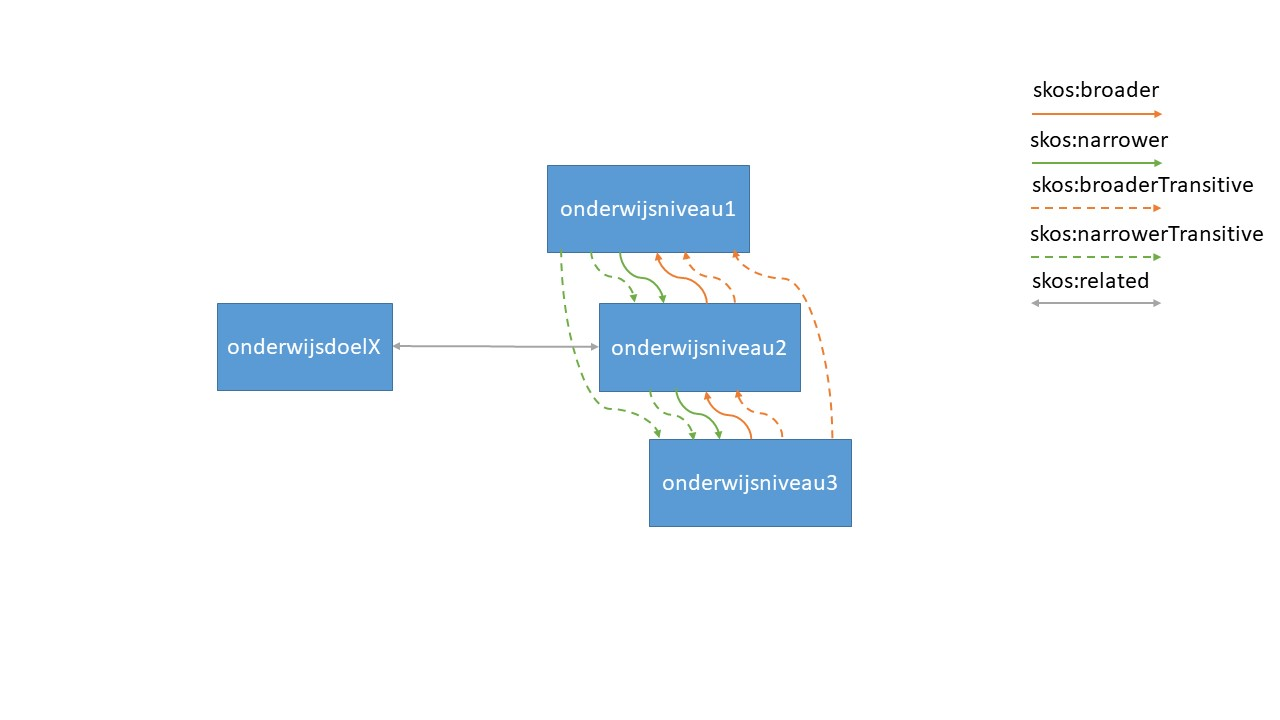
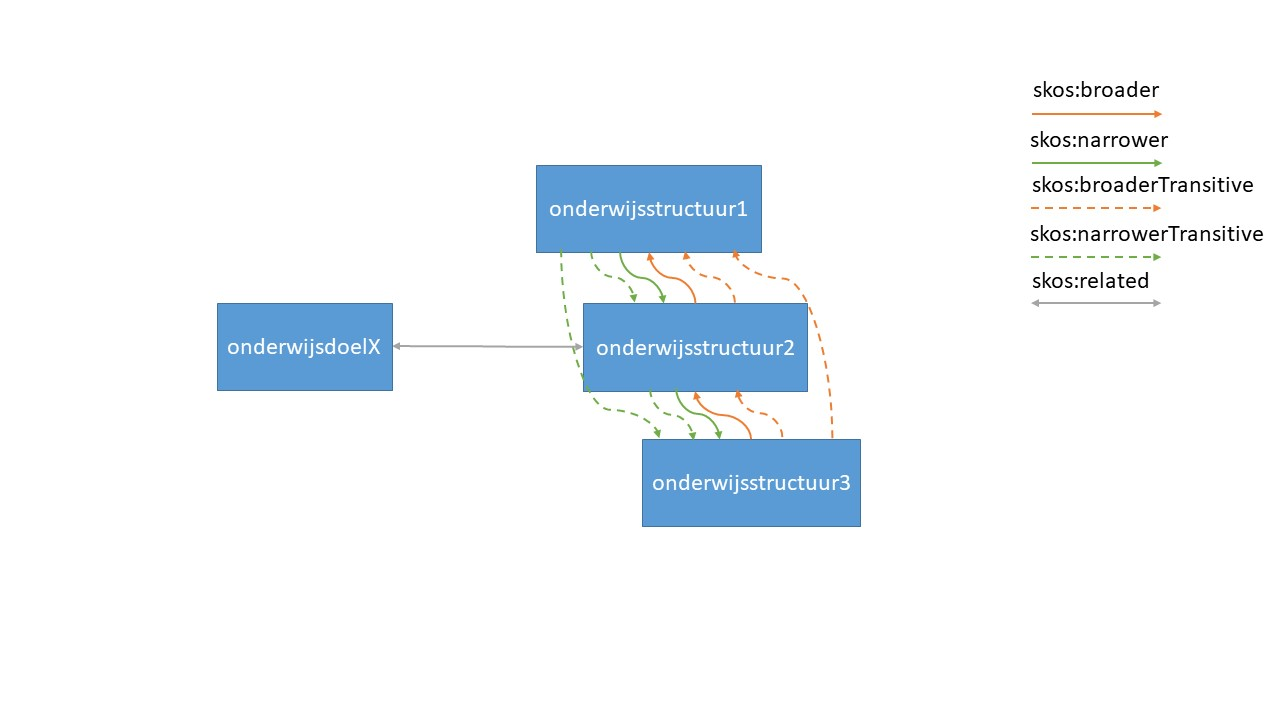
update

diff --git a/routes/overview.js b/routes/overview.js
@@ -28,7 +28,7 @@ router.get('/leergebieden', async (req, res, next) => {
     }
 });
 
-router.get('/onderwijsniveaus', async (req, res, next) => {
+router.get('/onderwijsstructuur', async (req, res, next) => {
     try {
         const body = await req.app.settings.ourSettings.queryService.queryByName('overview-top-down', {collection: "http://ilearn.ilabt.imec.be/vocab/elem/ondniv"});
         res.send(body);
